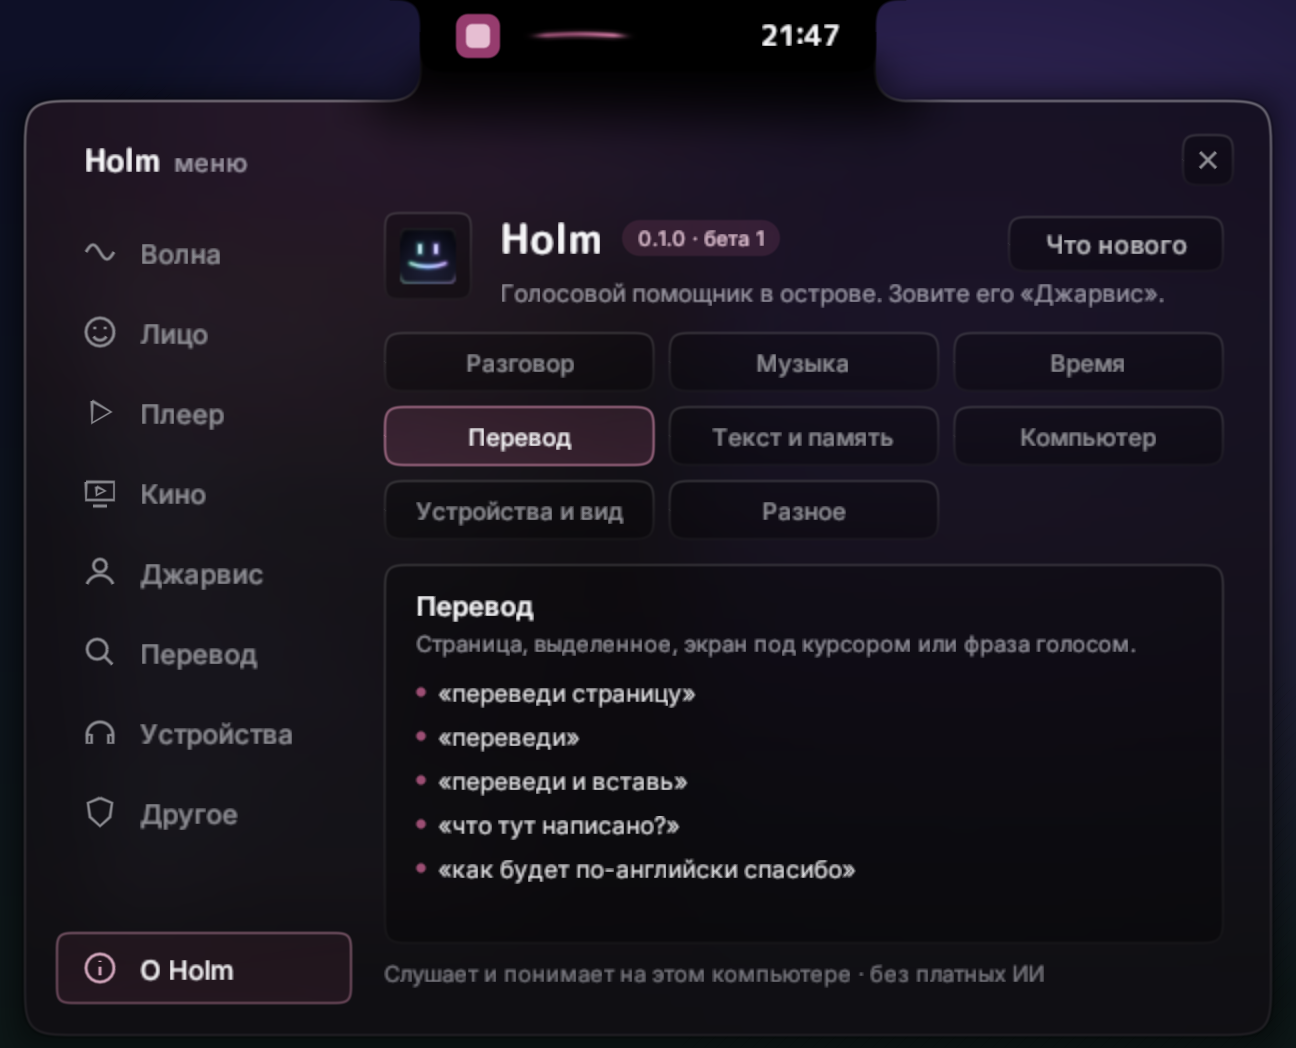
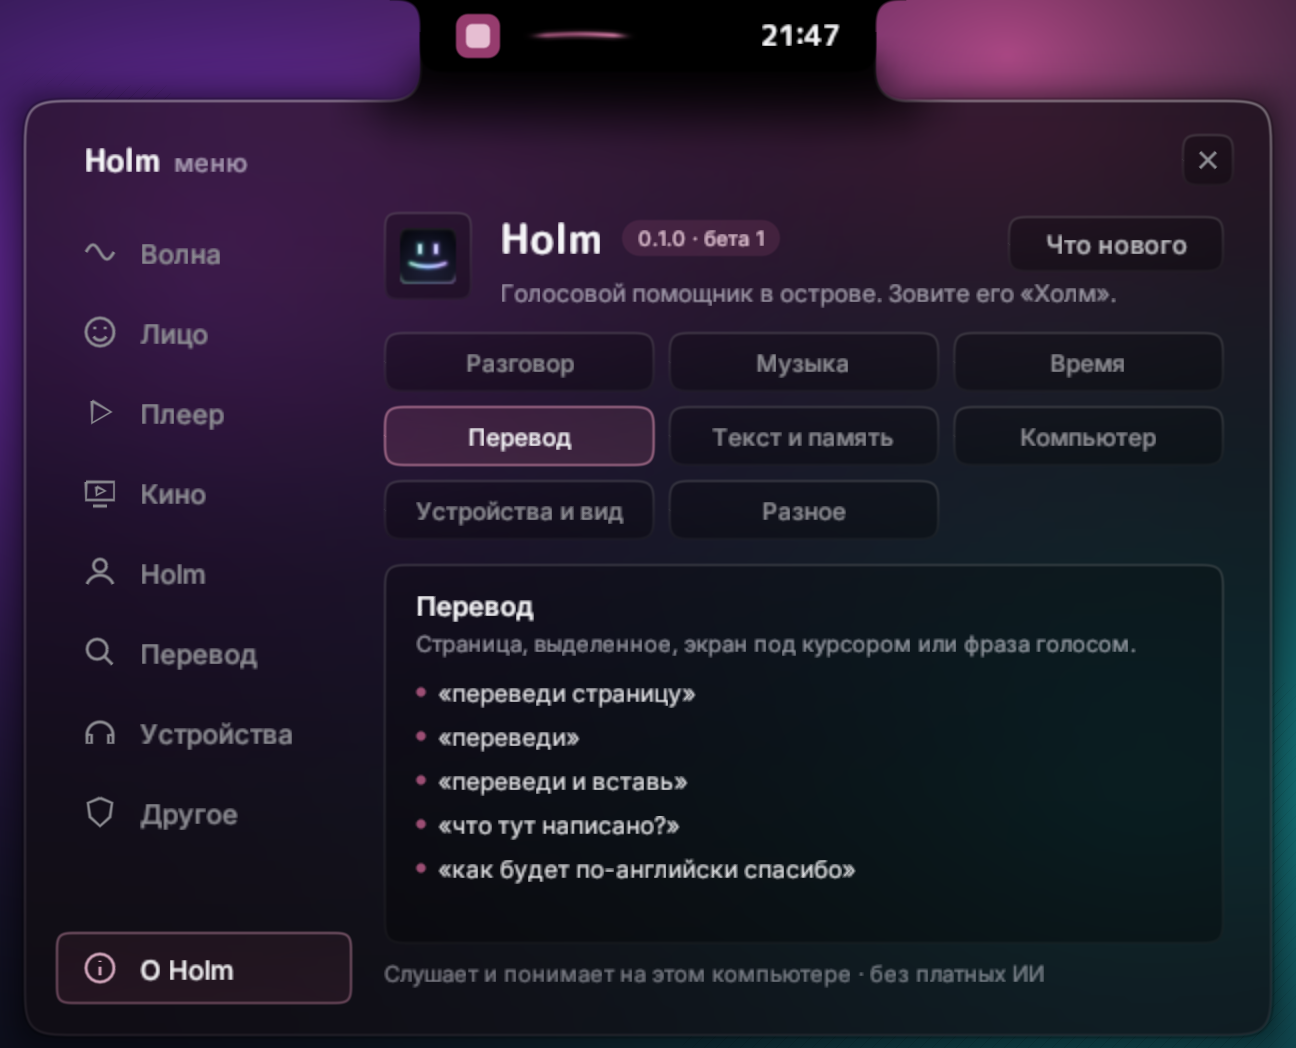
Витрина: картинки возможностей, имя «Холм», пульт кинотеатра

diff --git a/README.md b/README.md
@@ -1,10 +1,8 @@
 <div align="center">
 
-<img src="docs/screens/icon.png" width="96" alt="Holm">
+<img src="docs/screens/hero.png" width="820" alt="Holm — остров, который слушает">
 
 # Holm
-
-### Остров, который слушает.
 
 Голосовой помощник для Windows. Живёт наверху экрана, понимает живую речь,<br>
 переводит страницы прямо поверх них, гасит свет для кино и прячет рекламу.<br>
@@ -29,11 +27,17 @@
 
 Свет острова — цветами того, что играет. Меню и карточки — из жидкого стекла: перелив, блики, свет от курсора. Всё движется на пружинах, как в iOS.
 
+<div align="center">
+
+<img src="docs/screens/island.png" width="820" alt="Остров в покое и карточки, которые он предлагает сам">
+
+</div>
+
 ## 🎙 Голос — как с человеком
 
-Скажите **«Джарвис»** — и что нужно, своими словами. Holm понимает живую речь: длинные фразы, оговорки, несколько просьб сразу, «нет» и «верни как было». После ответа можно продолжать без имени.
+Скажите **«Холм»** — и что нужно, своими словами. Holm понимает живую речь: длинные фразы, оговорки, несколько просьб сразу, «нет» и «верни как было». После ответа можно продолжать без имени.
 
-> «Джарвис, поставь таймер на десять минут и сделай погромче»
+> «Холм, поставь таймер на десять минут и сделай погромче»
 > «напомни через час позвонить маме»
 > «сколько будет 15% от 3200?» · «5 миль в километрах» · «сколько дней до Нового года?»
 > «что такое чёрная дыра?» · «какая погода завтра в Казани?»
@@ -41,6 +45,8 @@
 > «подбрось монетку» · «выбери: пицца или суши»
 
 **Свой мозг, без интернета.** Речь распознаётся на компьютере: быстрый распознаватель пишет черновик на лету, точный — с пунктуацией — дописывает фразу. Тяжёлое распознавание включается, только когда в микрофоне голос.
+
+**Имя на выбор.** Откликается на «Холм» — и на прежнее «Джарвис», если вы к нему привыкли: меню → «Holm» → «Отклик».
 
 **Утром поздоровается.** По времени суток, вспомнит, давно ли вы не виделись, заметит праздник и расскажет погоду.
 
@@ -54,9 +60,21 @@
 - **Оригинал рядом** — Ctrl показывает всю страницу как есть, Shift над абзацем — только его.
 - **Не только страницы** — выделенный текст, «переведи и вставь» вместо выделенного, «что тут написано?» с экрана игры или картинки, «как будет по-английски спасибо». 17 языков.
 
+<div align="center">
+
+<img src="docs/screens/translate.png" width="820" alt="Страница до перевода, во время волны и после">
+
+</div>
+
 ## 🎬 Кино
 
-Откройте ролик на YouTube — Holm предложит кинотеатр. Всё вокруг видео **гаснет от краёв экрана к кадру**, а кадр светится своими цветами, как подсветка у телевизора. Остров перетекает в цвета фильма. Esc или щелчок мимо видео — свет включается обратно.
+Откройте ролик на YouTube — Holm предложит кинотеатр. Всё вокруг видео **гаснет от краёв экрана к кадру**, а кадр светится своими цветами, как подсветка у телевизора. Остров перетекает в цвета фильма. Под кадром — **пульт**: пауза, перемотка и время в стеклянной капсуле; он появляется от движения мыши и уходит, когда мышь замерла. Esc или щелчок мимо видео — свет включается обратно.
+
+<div align="center">
+
+<img src="docs/screens/cinema.png" width="820" alt="Обычная страница с роликом и она же в кинотеатре">
+
+</div>
 
 ## 🎵 Музыка, которую видно
 
@@ -82,19 +100,30 @@
 
 Волна, лицо, плеер, перевод, кино, иконка, автозапуск — в стеклянном меню, и каждый вариант показан вживую, прежде чем вы его выберете. Всё, что Holm понимает, — там же: меню → «О Holm».
 
+<table>
+<tr>
+<td><img src="docs/screens/menu-wave.png" alt="Меню: волна"></td>
+<td><img src="docs/screens/menu-player.png" alt="Меню: плеер"></td>
+</tr>
+<tr>
+<td><img src="docs/screens/menu-lens.png" alt="Меню: перевод"></td>
+<td><img src="docs/screens/menu-cinema.png" alt="Меню: кино"></td>
+</tr>
+</table>
+
 <div align="center">
 
-<img src="docs/screens/menu-about.png" width="760" alt="Меню Holm">
+<img src="docs/screens/menu-about.png" width="640" alt="Меню Holm: что он понимает">
 
 </div>
 
 ## ⬇ Как поставить
 
 1. Скачайте архив из [последнего выпуска](../../releases/latest) и распакуйте папку целиком.
-2. Запустите `jarvis.exe`. Windows может предупредить о программе без платной подписи: «Подробнее» → «Выполнить в любом случае».
-3. Скажите: **«Джарвис, который час?»**
+2. Запустите `Holm.exe`. Windows может предупредить о программе без платной подписи: «Подробнее» → «Выполнить в любом случае».
+3. Скажите: **«Холм, который час?»**
 
-Нужны Windows 10 или 11 и микрофон. Устанавливать и регистрироваться не надо — после первого запуска Holm сам появится в меню «Пуск» (пока под старым именем Jarvis).
+Нужны Windows 10 или 11 и микрофон. Устанавливать и регистрироваться не надо — после первого запуска Holm сам появится в меню «Пуск».
 
 ## 🔒 Приватность
 

diff --git a/CHANGELOG.md b/CHANGELOG.md
@@ -21,7 +21,8 @@
 - **Четыре иконки** — лицо, остров, линия и буква, нарисованные кодом.
 
 ### 🎙 Голос
-- **«Джарвис, …» — и просьба своими словами** — длинные фразы, оговорки, несколько просьб сразу; после ответа можно продолжать без имени.
+- **«Холм, …» — и просьба своими словами** — длинные фразы, оговорки, несколько просьб сразу; после ответа можно продолжать без имени.
+- **Имя на выбор** — откликается на «Холм» и на прежнее «Джарвис»; какое оставить — в меню.
 - **Два распознавателя** — быстрый пишет черновик на лету, точный дописывает фразу с пунктуацией; оба на вашем компьютере.
 - **Умный слух** — тяжёлое распознавание включается, только когда в микрофоне голос.
 - **«Нет» и «верни как было»** — отменяет последнее; опасное (выключить компьютер) — только после «да».
@@ -41,6 +42,7 @@
 ### 🎬 Кино
 - **Кинотеатр для YouTube** — всё вокруг ролика гаснет от краёв экрана к кадру, а кадр светится своими цветами, как подсветка у телевизора.
 - **Сам предлагает** — для нового ролика; «кинотеатр» — голосом; Esc или щелчок мимо видео — выйти.
+- **Пульт под кадром** — пауза, перемотка и время в стеклянной капсуле; появляется от движения мыши, на паузе остаётся.
 - **Остров в цветах кадра** — пока идёт кино, он перетекает в краски фильма.
 - **Страница «Кино»** — затемнение, свечение и живой образец, который показывает, что получится.
 
